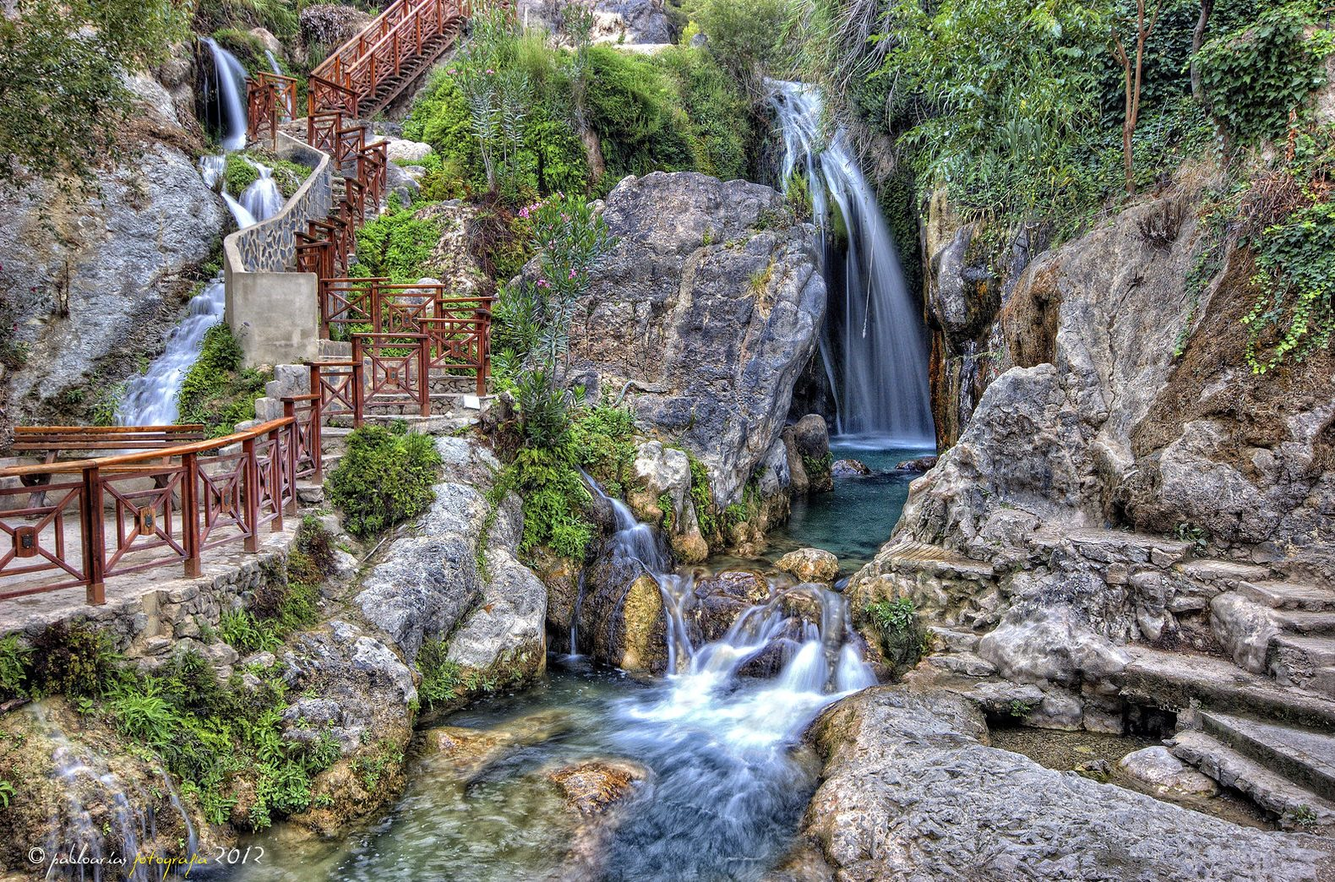
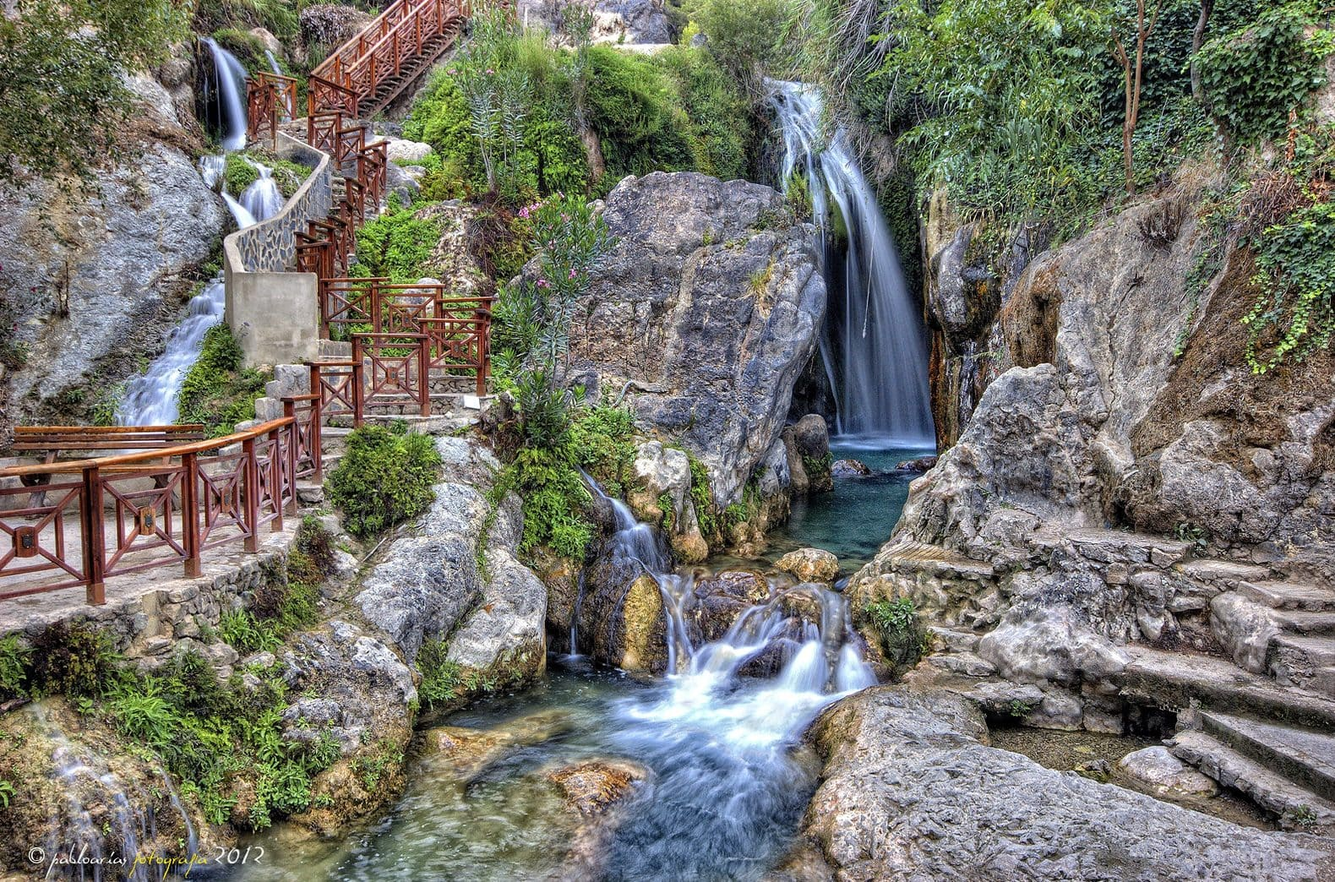
Otra vez las img 2

diff --git a/src/components/main.html b/src/components/main.html
@@ -4,14 +4,14 @@
             <source srcset="images/slider/480/algar.jpg 480w" type="image/jpg" media="(max-width: 480px)"/>
             <source srcset="images/slider/768/algar.jpg 768w" type="image/jpg" media="(max-width: 768px)"/>
             <source srcset="images/slider/960/algar.jpg 960w" type="image/jpg" media="(max-width: 960px)"/>
-            <img src="images/slider/algar.avif" width="1200px" height="600px" alt="foto fuentes algar">
+            <img src="images/slider/algar.jpg" width="1200px" height="600px" alt="foto fuentes algar">
         </picture>
 
         <picture>
             <source srcset="images/slider/480/mic.jpg 480w" type="image/jpg" media="(max-width: 480px)"/>
             <source srcset="images/slider/768/mic.jpg 768w" type="image/jpg" media="(max-width: 768px)"/>
             <source srcset="images/slider/960/mic.jpg 960w" type="image/jpg" media="(max-width: 960px)"/>
-            <img src="images/slider/mic.webp" width="1200px" height="600px" alt="foto fiestas moros y cristianos" loading="lazy">
+            <img src="images/slider/mic.jpg" width="1200px" height="600px" alt="foto fiestas moros y cristianos" loading="lazy">
         </picture>
 
         <picture>
